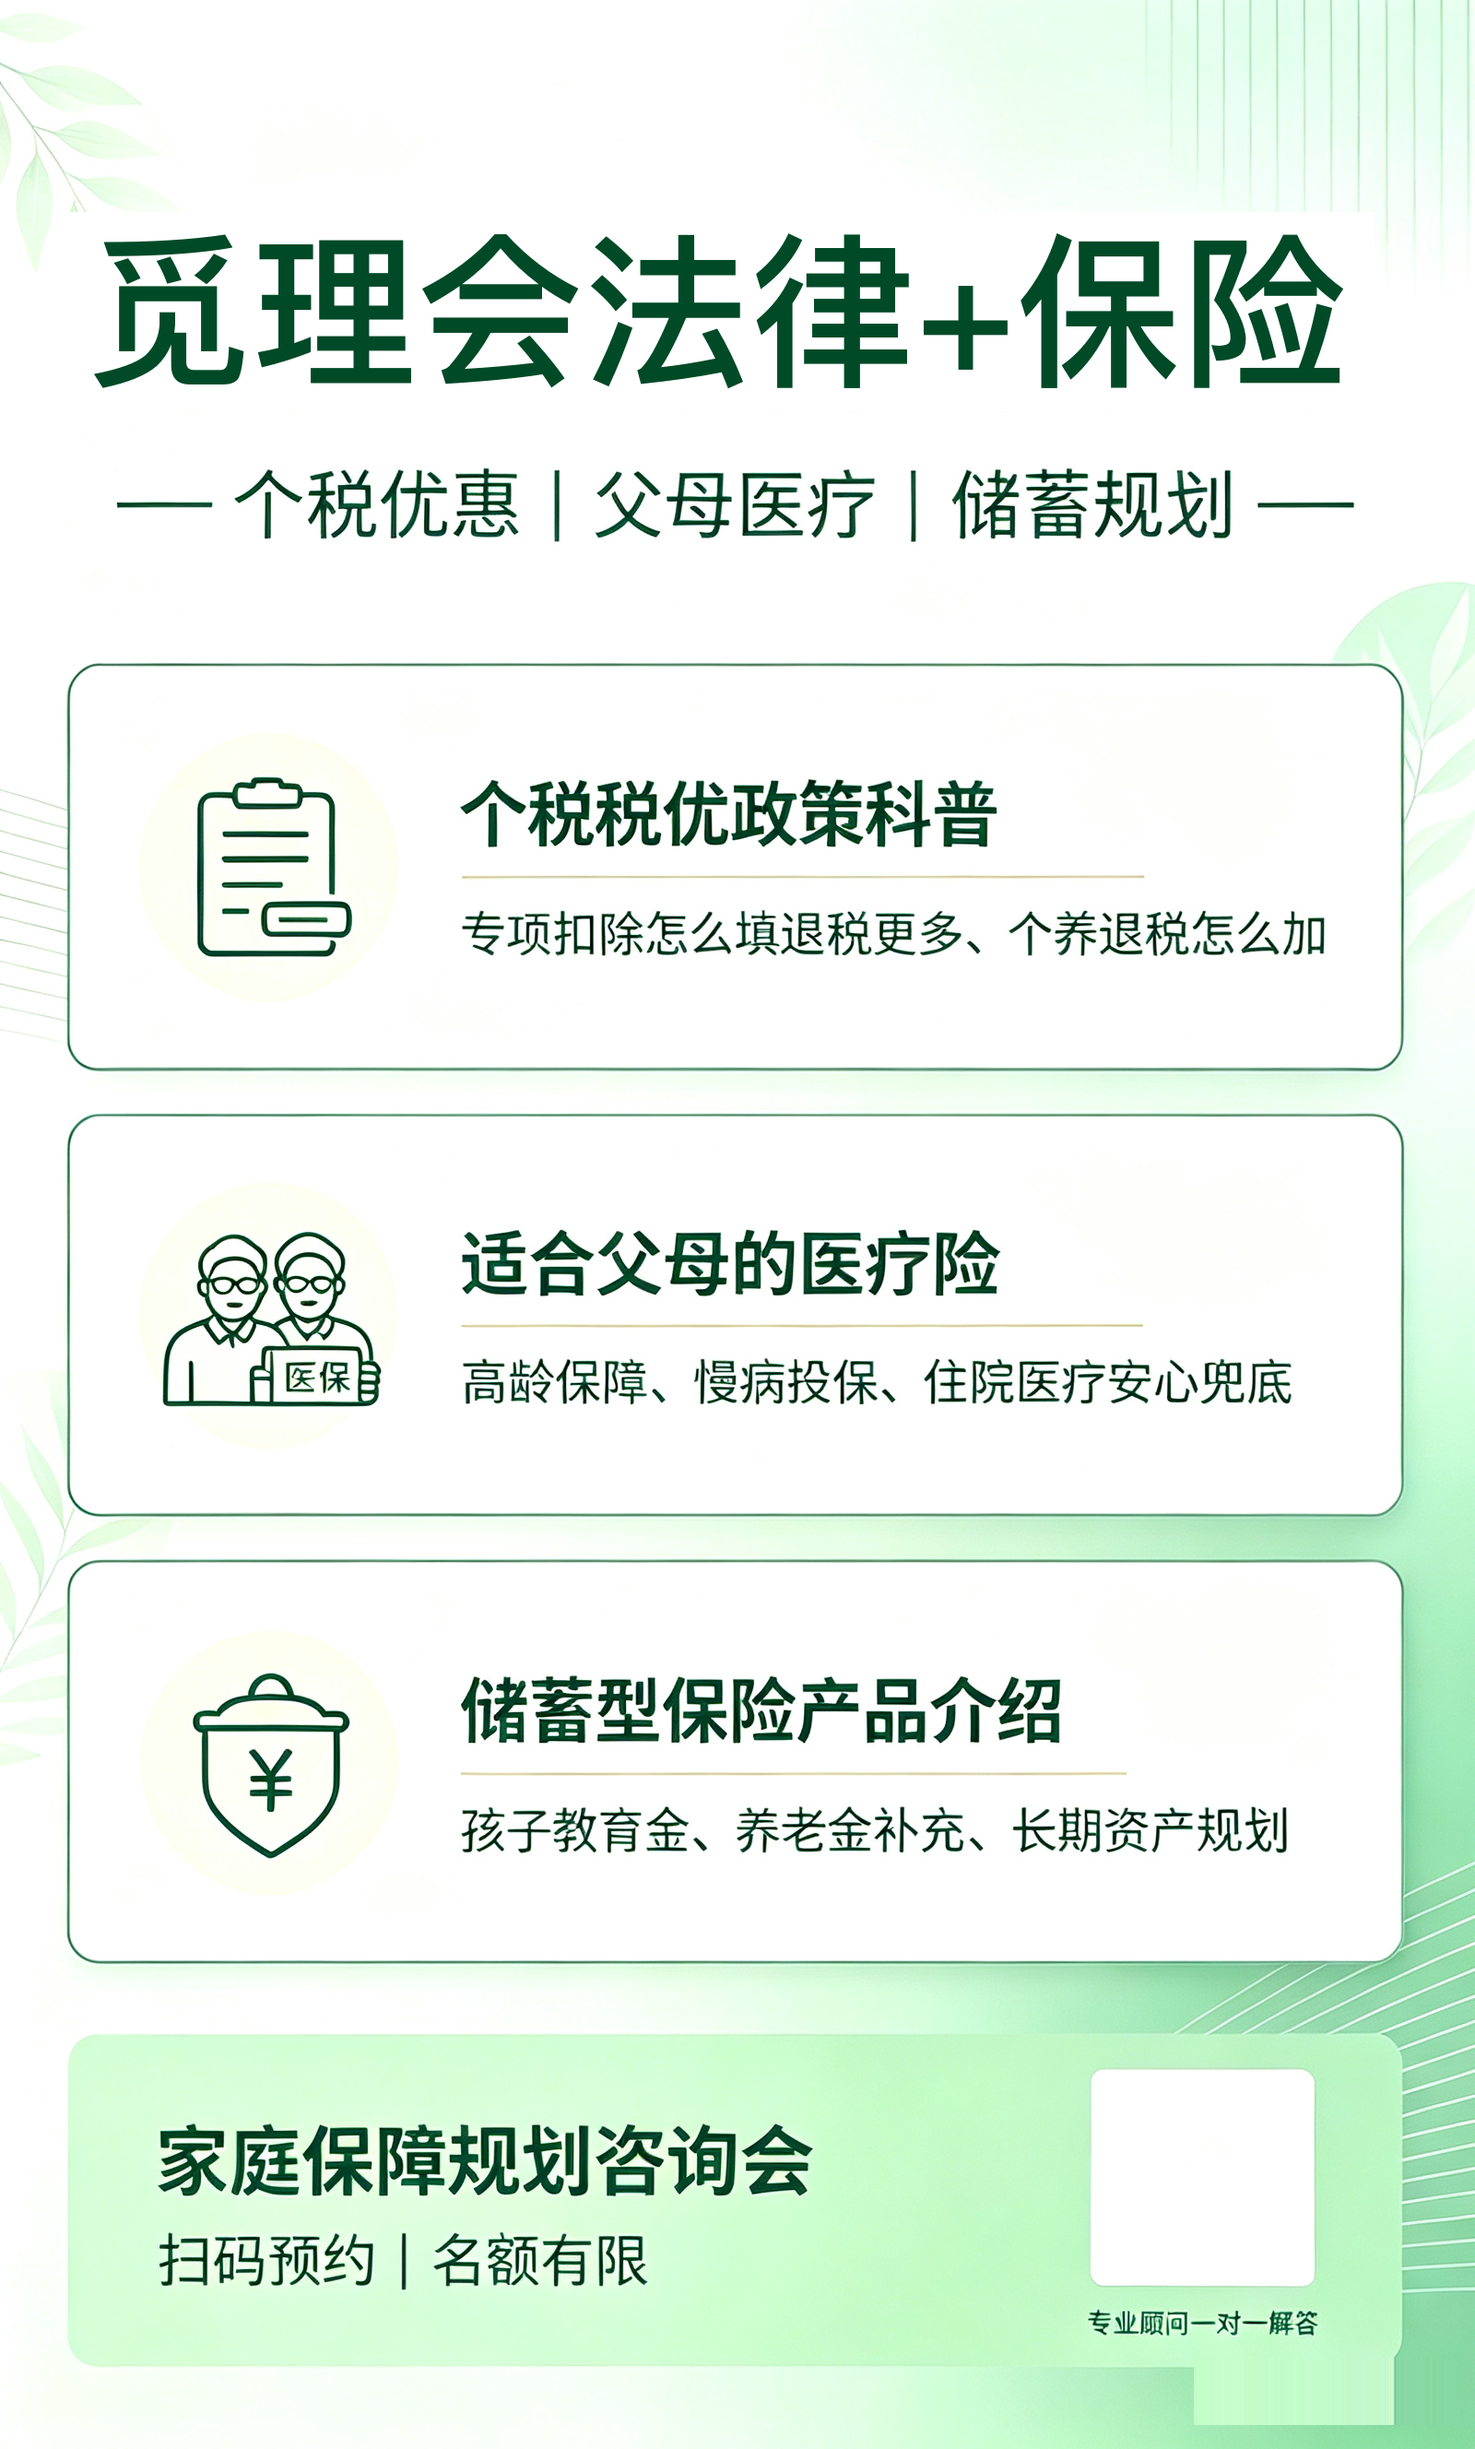
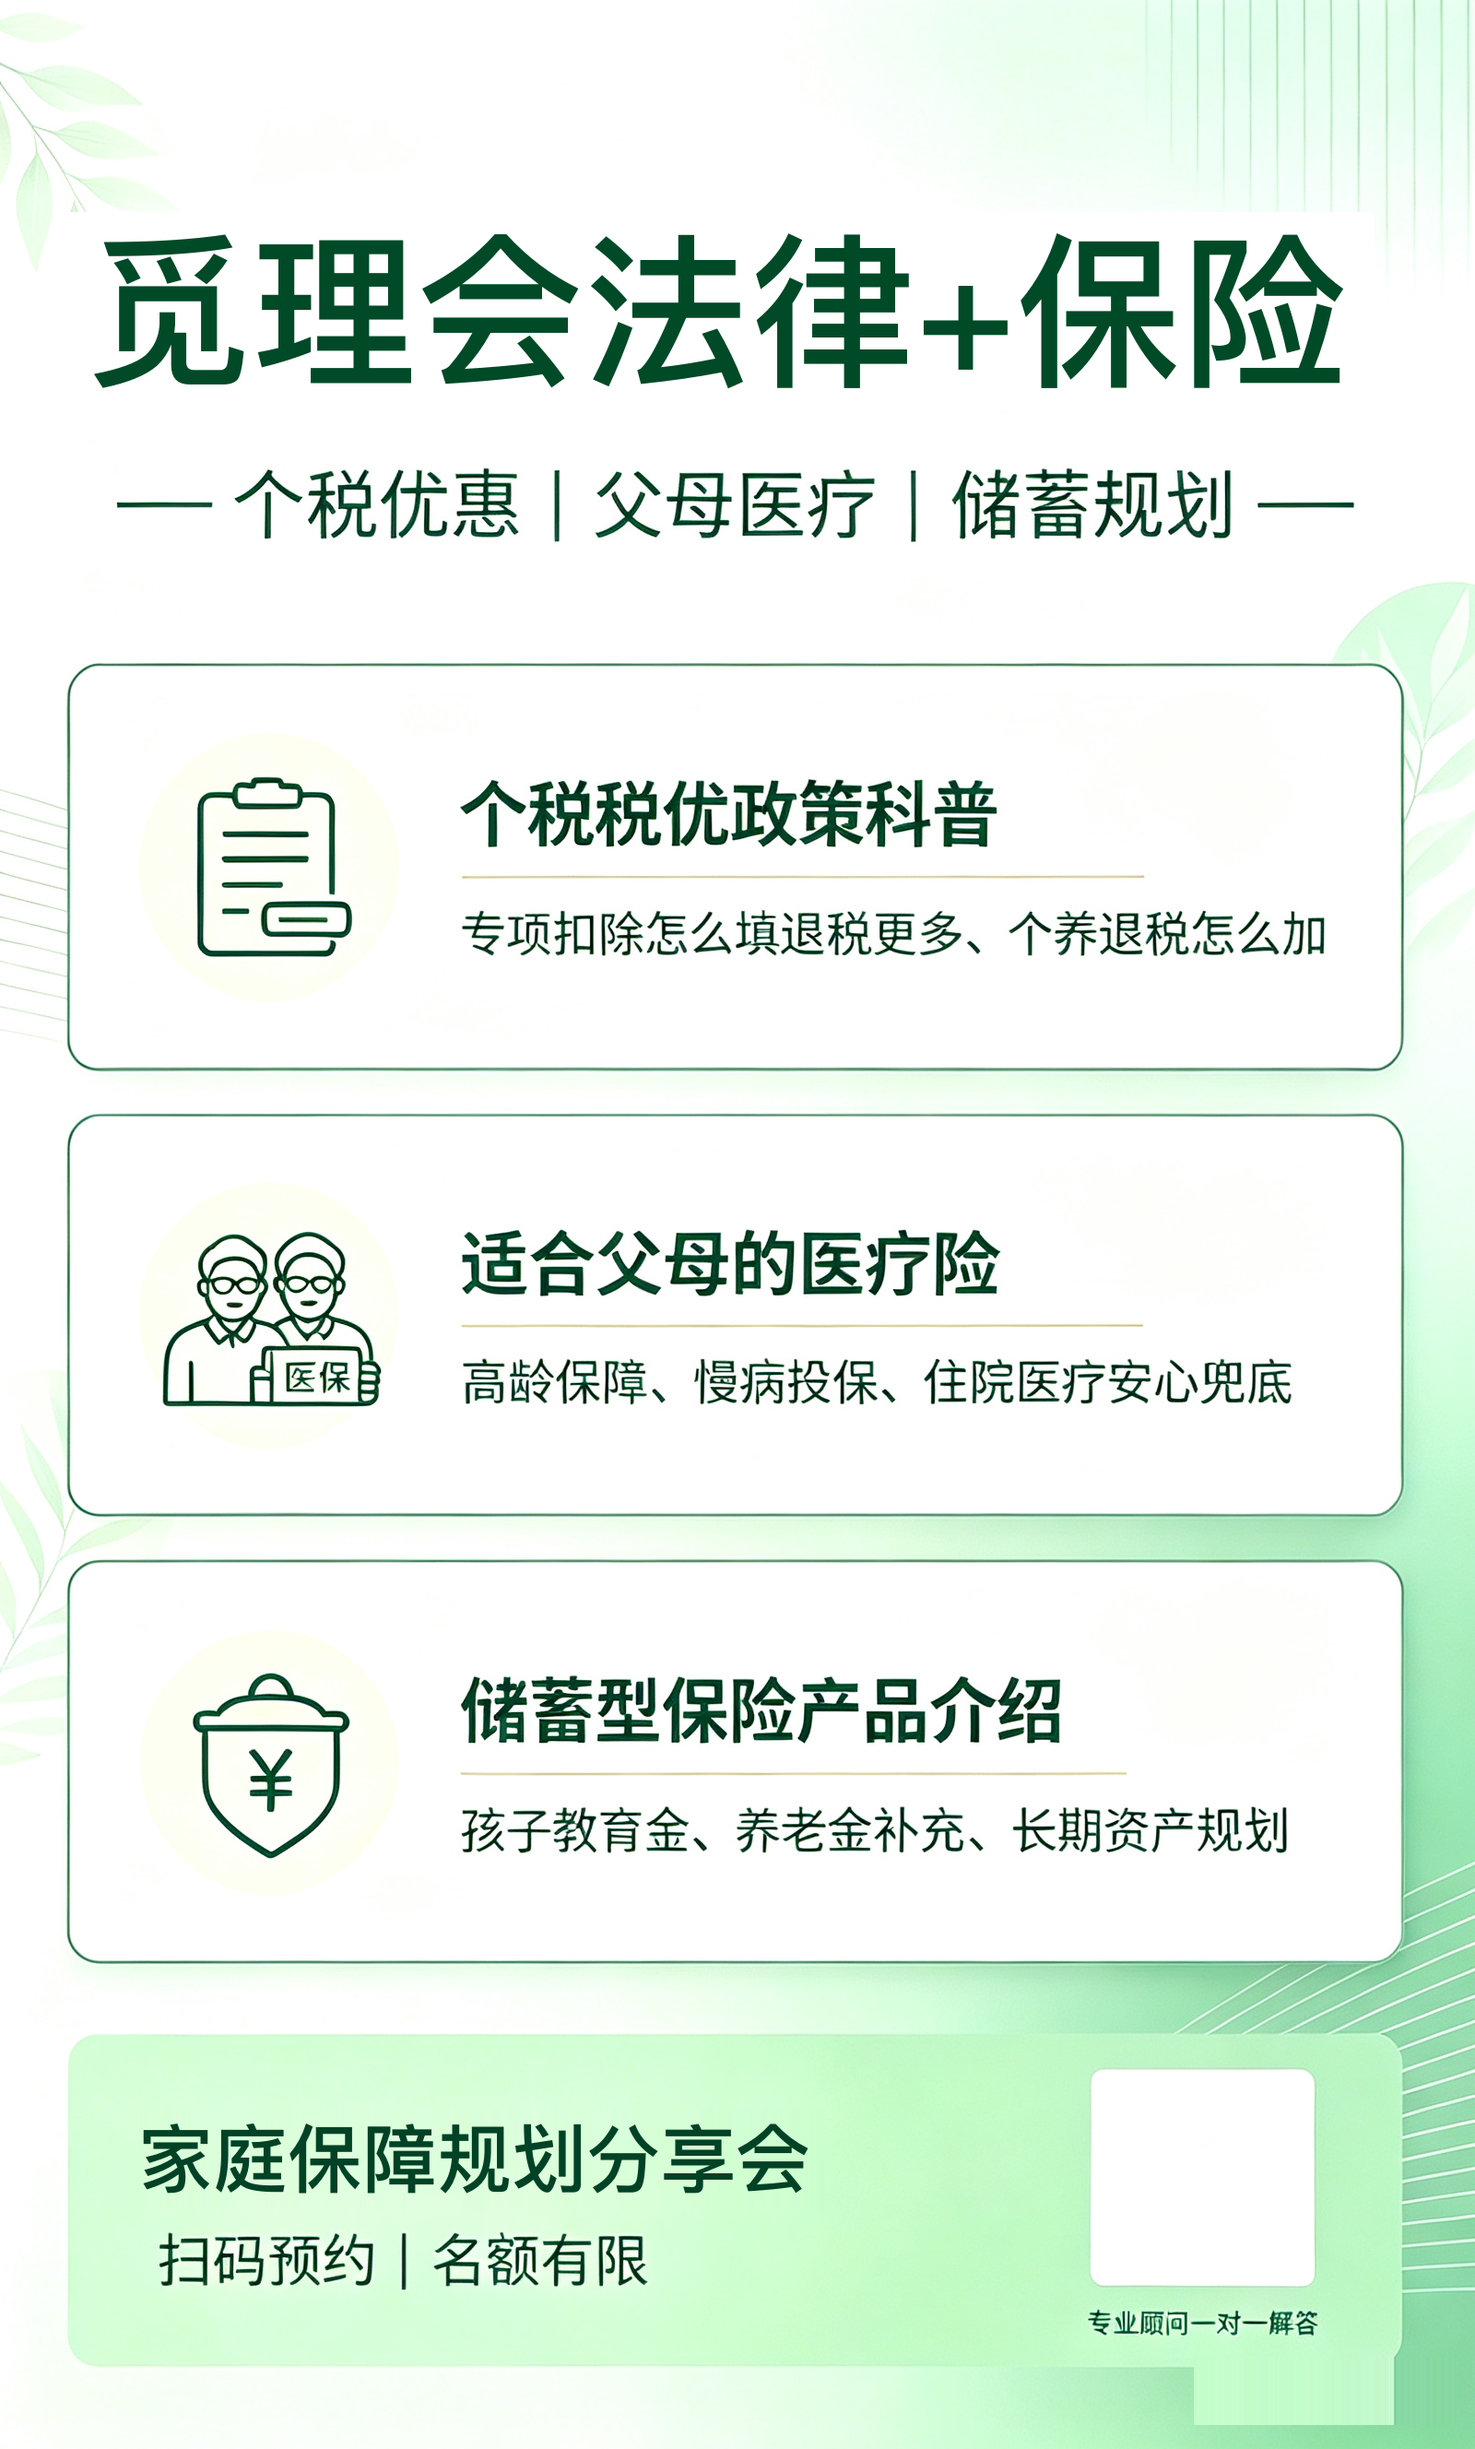
edit: 咨询会统一改为分享会（页面+海报）

Changed region(s): [[0.0938, 0.8438, 0.5625, 0.9062]]

diff --git a/mili/lishare/insurance-20260911/index.html b/mili/lishare/insurance-20260911/index.html
@@ -3,9 +3,9 @@
 <head>
 <meta charset="UTF-8">
 <meta name="viewport" content="width=device-width, initial-scale=1.0, viewport-fit=cover">
-<title>觅理理享会 · 大咖来讲｜家庭保障规划咨询会（2026年9月11日）</title>
-<meta name="description" content="觅理理享会·大咖来讲：家庭保障规划咨询会。个税优惠、父母医疗、储蓄规划，专业顾问一对一解答。2026年9月11日，名额有限，扫码预约。">
-<meta property="og:title" content="觅理理享会 · 大咖来讲｜家庭保障规划咨询会">
+<title>觅理理享会 · 大咖来讲｜家庭保障规划分享会（2026年9月11日）</title>
+<meta name="description" content="觅理理享会·大咖来讲：家庭保障规划分享会。个税优惠、父母医疗、储蓄规划，专业顾问一对一解答。2026年9月11日，名额有限，扫码预约。">
+<meta property="og:title" content="觅理理享会 · 大咖来讲｜家庭保障规划分享会">
 <meta property="og:description" content="2026年9月11日 · 个税优惠 / 父母医疗 / 储蓄规划 · 主讲人：徐敬（国家一级理财规划师）">
 <meta property="og:type" content="website">
 <style>
@@ -111,7 +111,7 @@
   <!-- HERO -->
   <header class="hero">
     <div class="brand">觅理理享会 · MILI SALON</div>
-    <div class="series">大咖来讲 · 家庭保障规划咨询会</div>
+    <div class="series">大咖来讲 · 家庭保障规划分享会</div>
     <h1 class="title">保险买对，家才安心</h1>
     <div class="subtitle">个税优惠 ｜ 父母医疗 ｜ 储蓄规划</div>
     <div class="date-badge">⏰ <strong>2026年9月11日</strong></div>
@@ -122,7 +122,7 @@
   <section>
     <div class="sec-title"><span class="bar"></span><h2>活动主题</h2><span class="en">TOPIC</span></div>
     <div class="poster">
-      <img src="poster-theme.png" alt="家庭保障规划咨询会活动海报：个税优惠、父母医疗、储蓄规划">
+      <img src="poster-theme.png" alt="家庭保障规划分享会活动海报：个税优惠、父母医疗、储蓄规划">
       <div class="poster-caption">扫码预约 · 名额有限 · 专业顾问一对一解答</div>
     </div>
   </section>
@@ -198,7 +198,7 @@
       <div class="info-row"><span class="k">时间</span><span class="v">2026年9月11日（具体时段以报名确认为准）</span></div>
       <div class="info-row"><span class="k">地点</span><span class="v">觅理律所 · 宝钢大厦1502<br>北京市朝阳区建国门外大街丙12-12号</span></div>
       <div class="info-row"><span class="k">乘车</span><span class="v">🚇 地铁1号线 永安里站 B口 步行约5分钟<br>🚇 地铁10号线 国贸站 E口 步行约8分钟<br>🚌 公交 建国门外大街站 / 大北窑西站</span></div>
-      <div class="info-row"><span class="k">形式</span><span class="v">线下咨询会 · 专业顾问一对一解答</span></div>
+      <div class="info-row"><span class="k">形式</span><span class="v">线下分享会 · 专业顾问一对一解答</span></div>
       <div class="info-row"><span class="k">名额</span><span class="v">名额有限，先到先得</span></div>
     </div>
     <div style="display:flex;gap:10px;margin-top:14px;">
